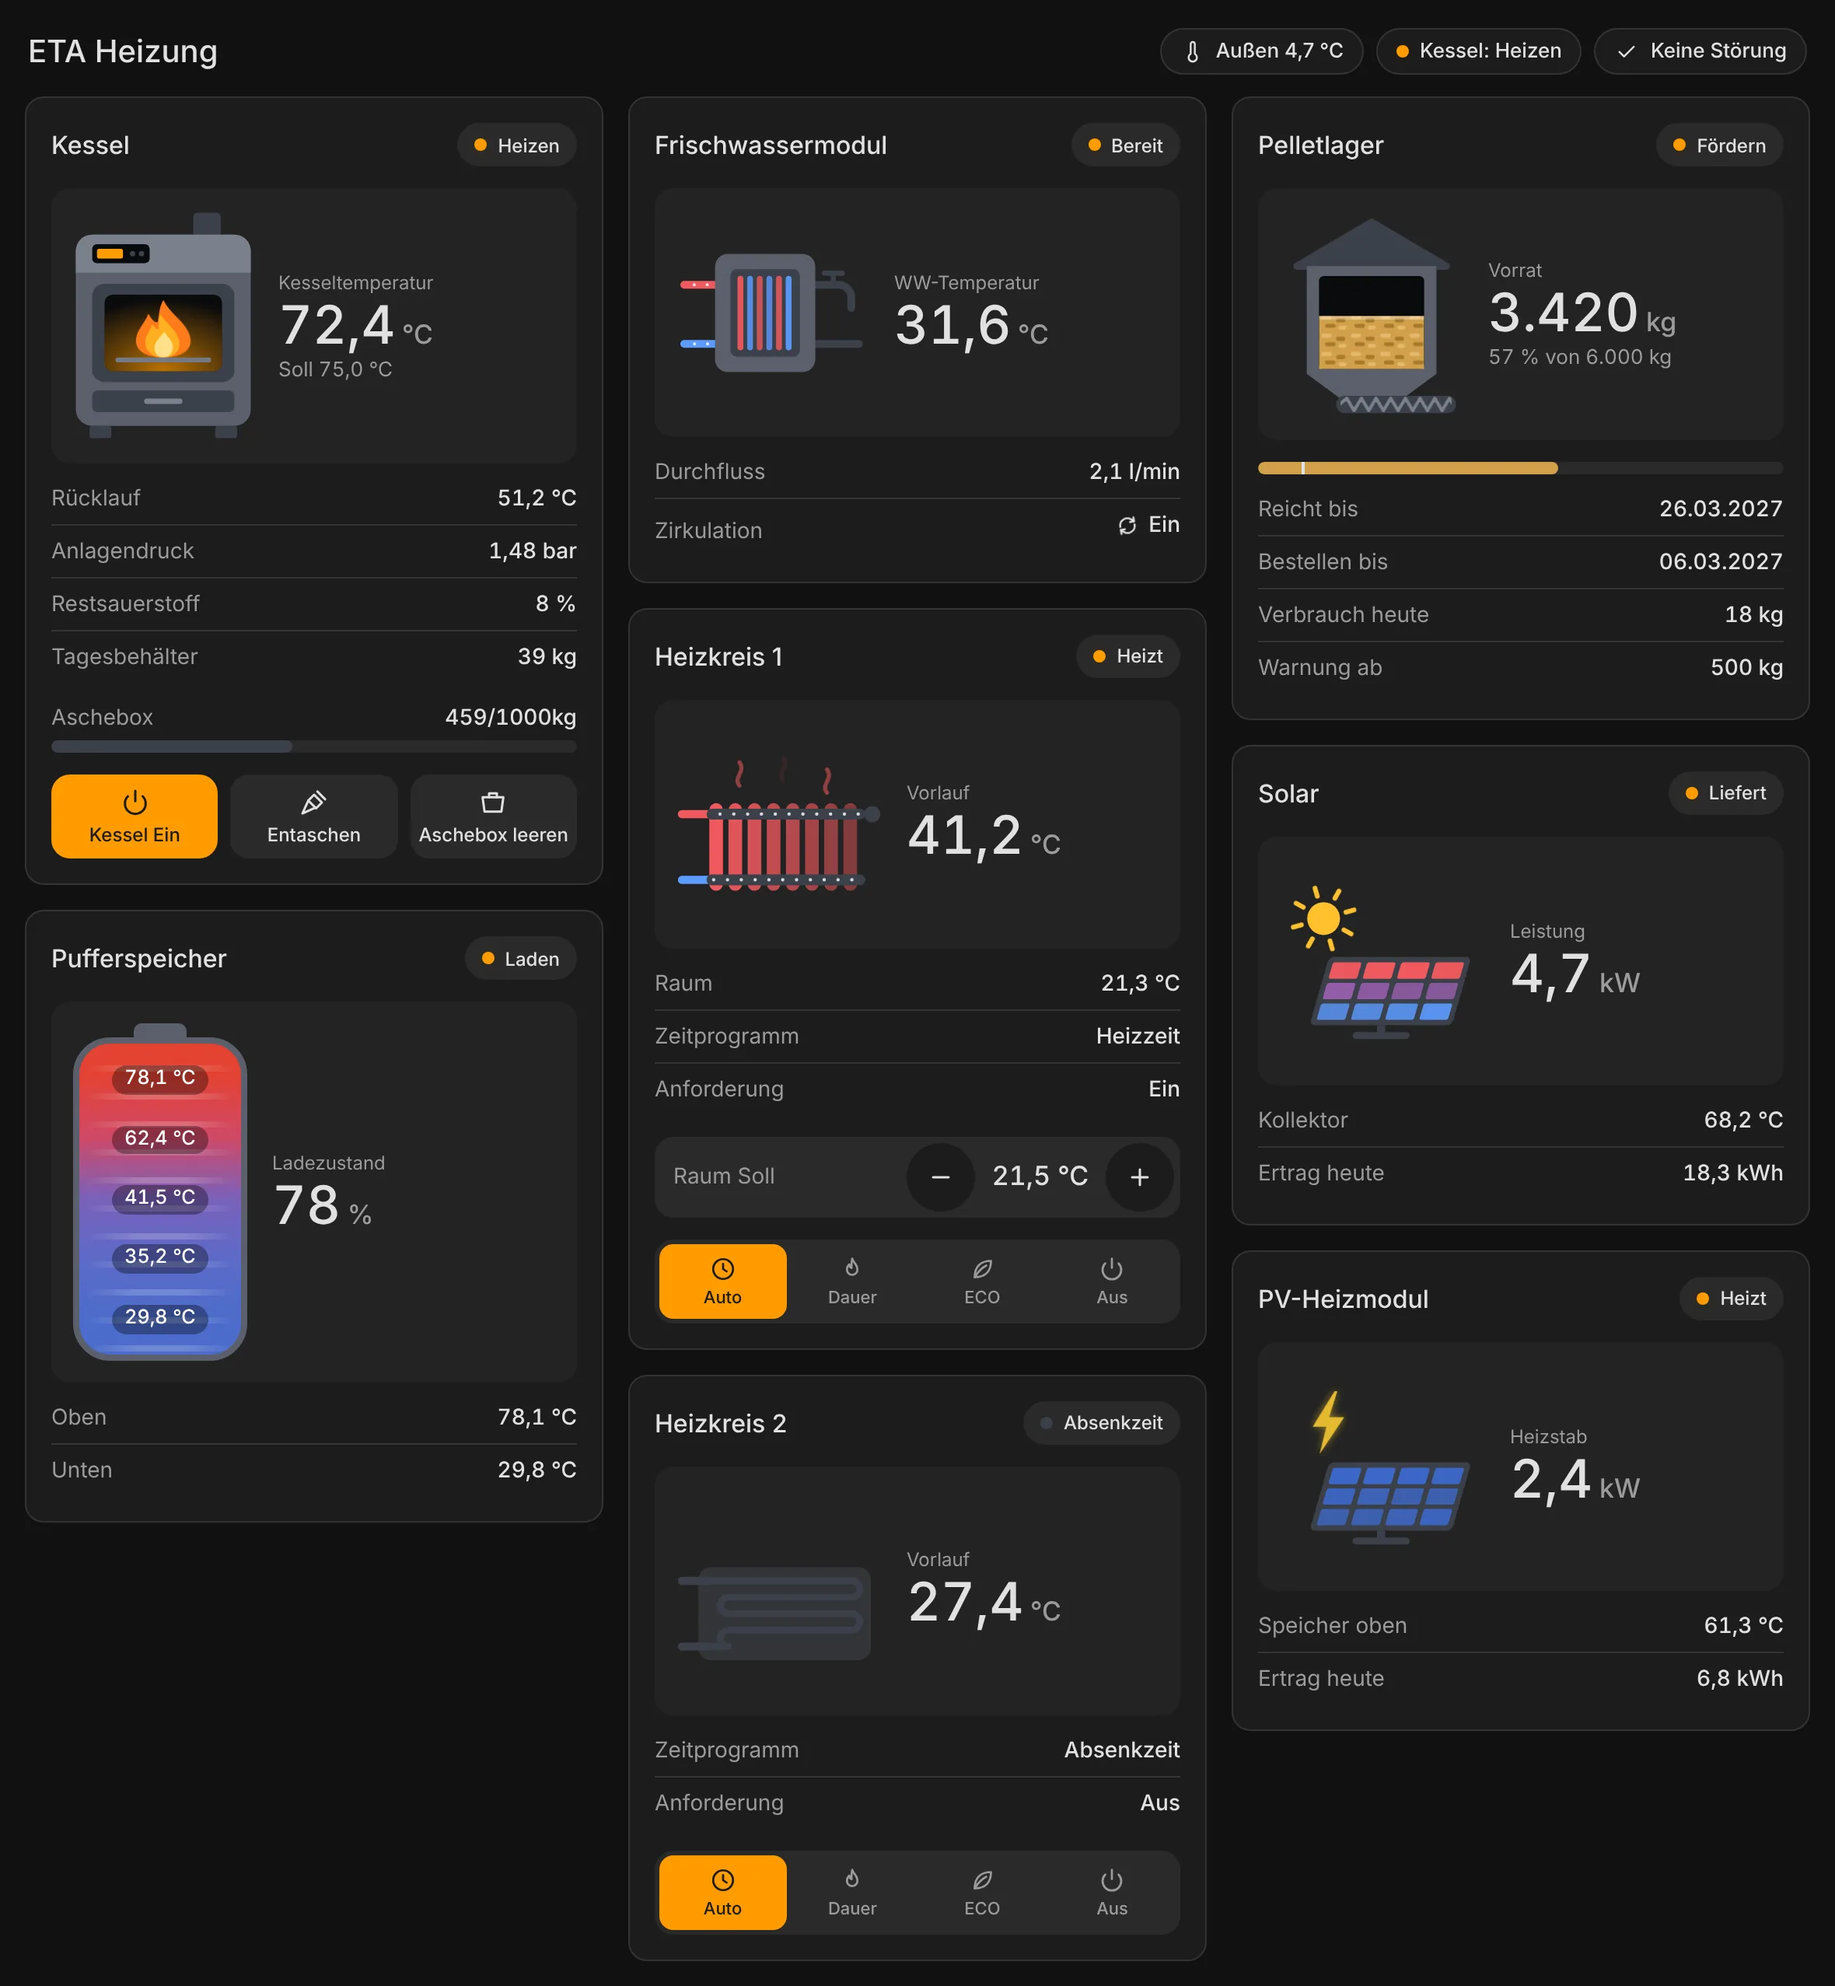
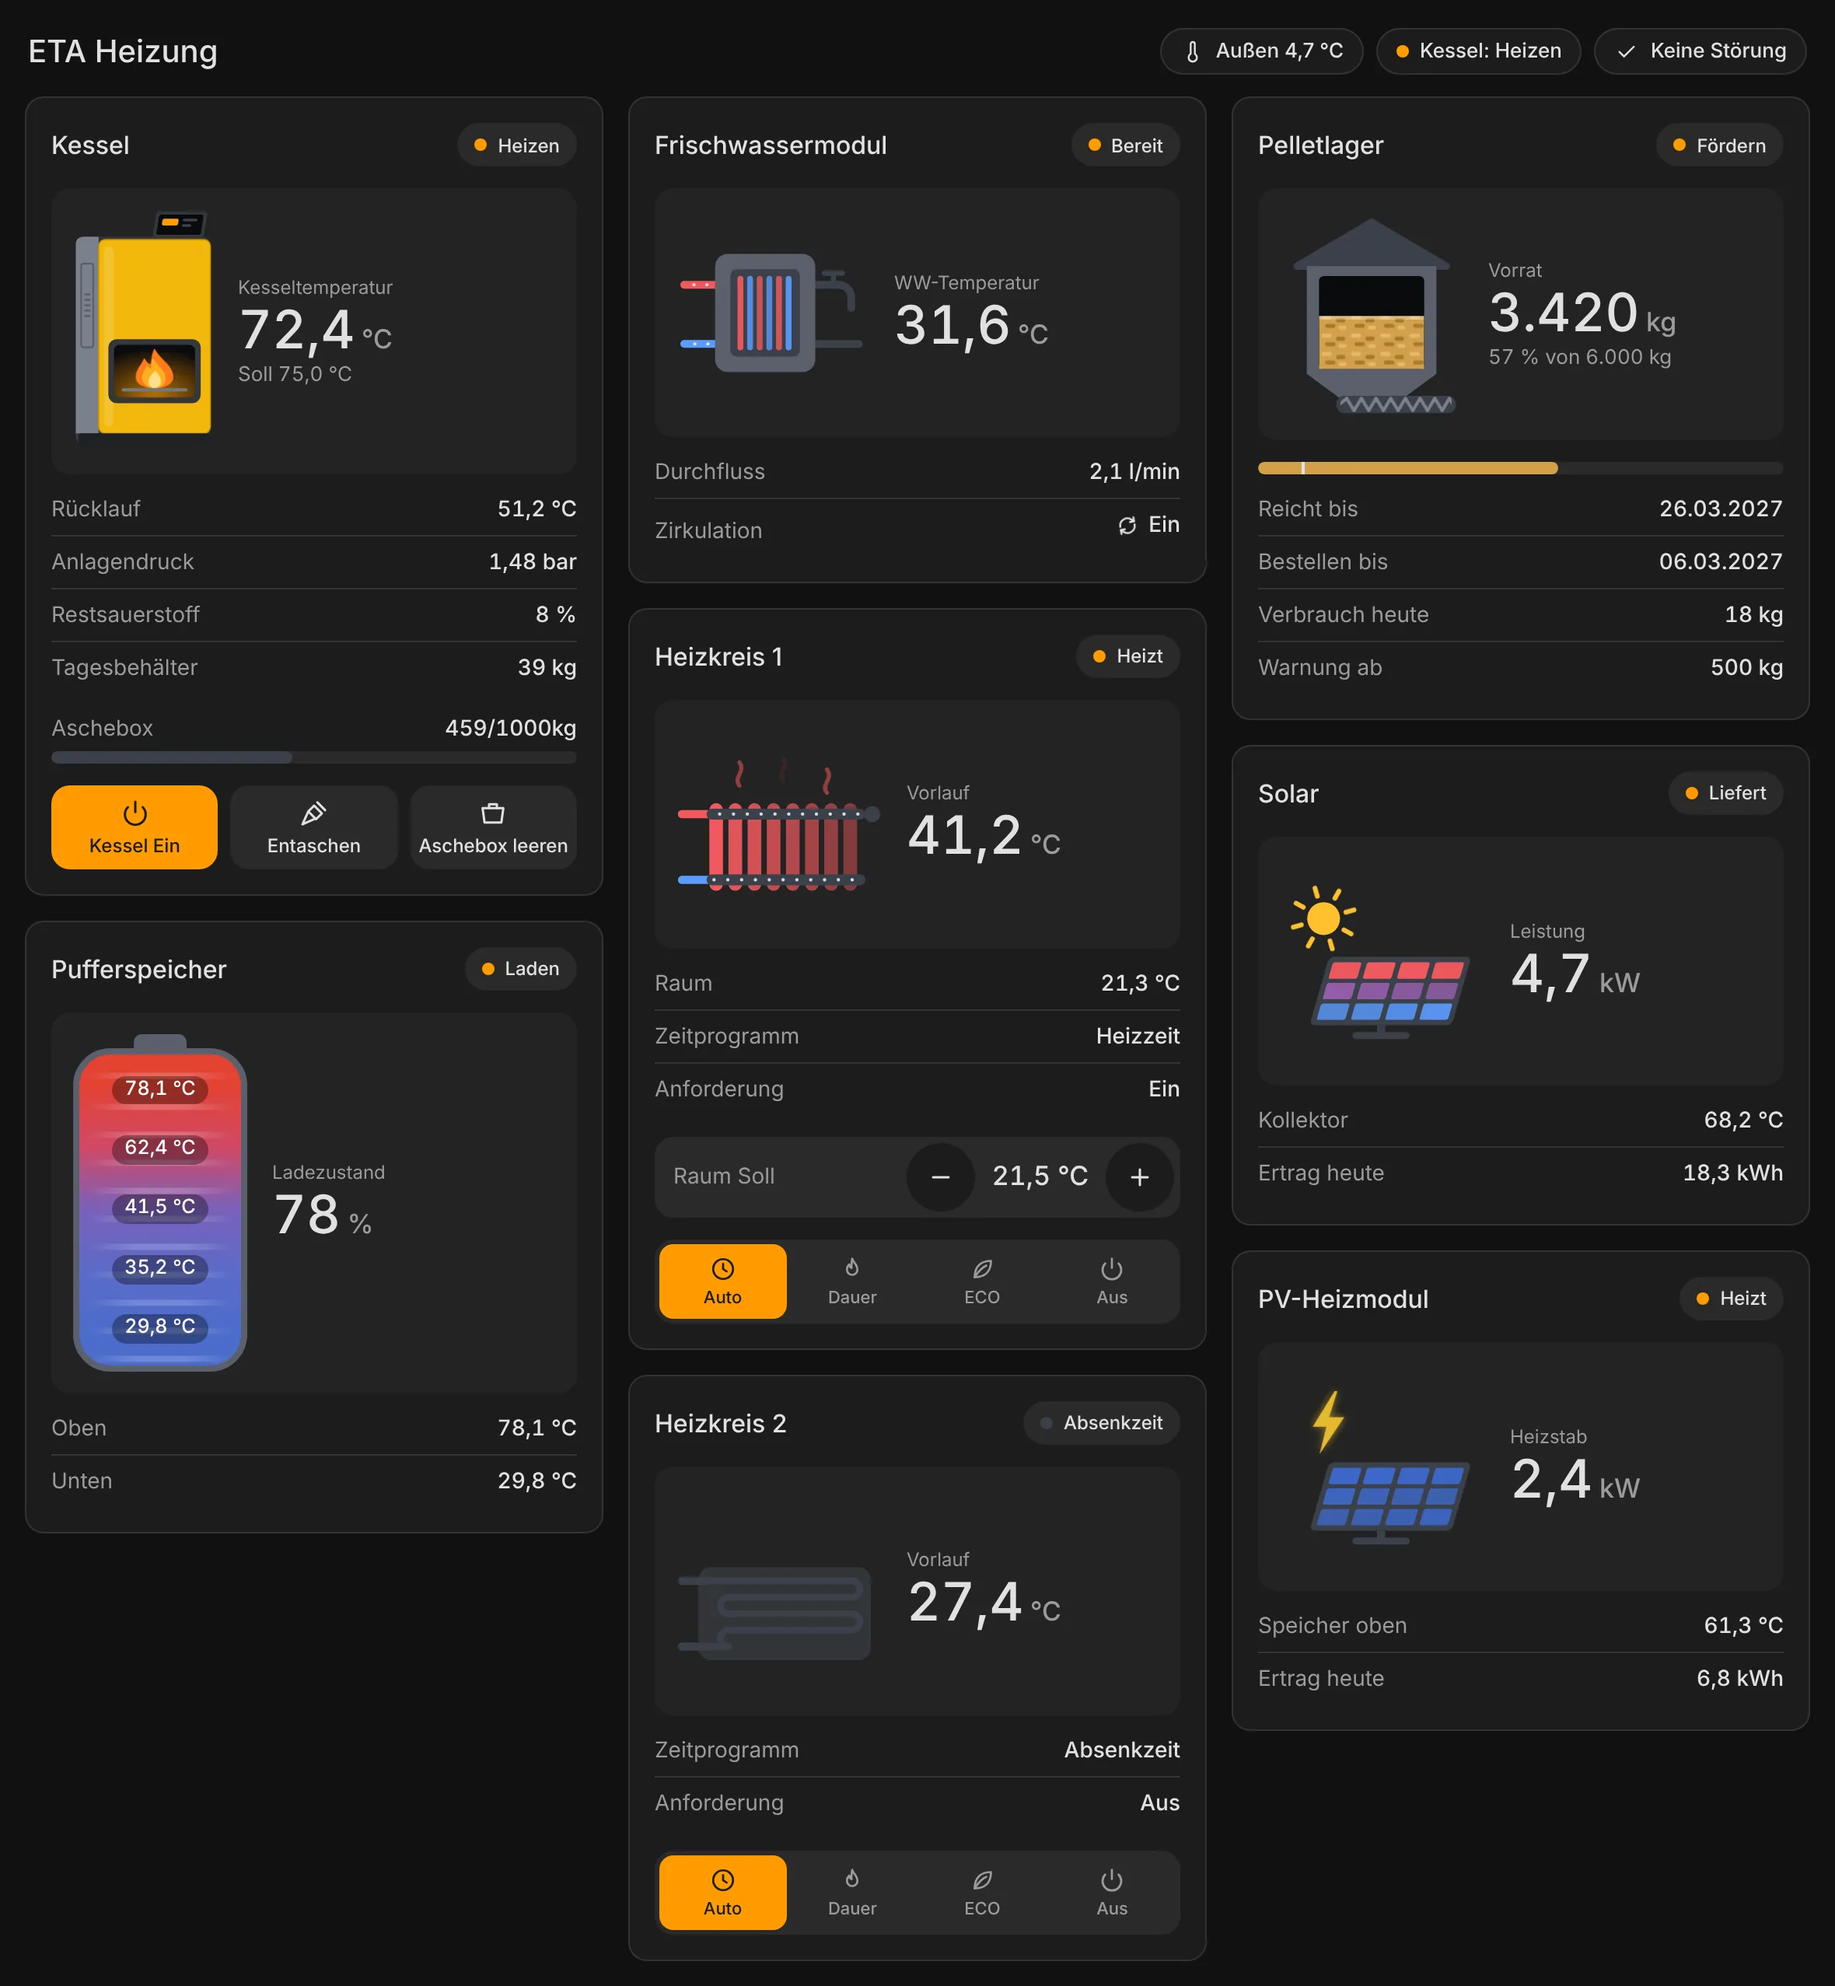
Uebersicht: Kessel als hoher Schrank mit gelber Front
Der Kessel sieht jetzt aus wie die Kessel im Heizraum: hohe gelbe Front,
silberne Seite, dunkler Sockel und der Bildschirm obenauf. Das Sichtfenster
mit Flamme, Zuendung, Glut und Entaschen bleibt - am echten Kessel gibt es
es nicht, die Karte zeigt daran, was der Kessel gerade tut. Bilder im
README neu.

diff --git a/custom_components/eta_heating_ws/oberflaeche/eta-uebersicht-karte.js b/custom_components/eta_heating_ws/oberflaeche/eta-uebersicht-karte.js
@@ -279,6 +279,7 @@ const STIL = `
     --buehne: rgba(127, 127, 127, .08);
     --rund: 12px;
     --metall: #c3c9d2; --metall-hell: #dde2e9; --metall-dunkel: #8b93a0; --kammer: #1d2025;
+    --kessel-gelb: #fcc10f; --kessel-rand: #d9a406; --kessel-dunkel: #3f434a; --kessel-sockel: #2c2f34;
     --akzent: #ff9b00; --auf-akzent: #1a1c20;
     --heiss: #e5484d; --kalt: #3b82f6; --pellet: #c8963e; --pellet-hell: #dcb062; --pellet-dunkel: #a87a2c;
     --sonne: #f2a900; --zelle: #6d7786; --pv: #2c56b0;
@@ -287,6 +288,7 @@ const STIL = `
   :host([vollbild]) { padding: 12px 16px 16px; box-sizing: border-box; }
   :host([dunkel]) {
     --metall: #5a606b; --metall-hell: #7a818d; --metall-dunkel: #3b4049; --kammer: #0a0b0d;
+    --kessel-gelb: #f2b70b; --kessel-rand: #c79405; --kessel-dunkel: #34373d; --kessel-sockel: #1f2125;
     --heiss: #f0595e; --kalt: #5b9bff; --pellet: #d1a04a; --pellet-hell: #e3b96c;
     --sonne: #ffc02e; --zelle: #4c5562; --pv: #3d68c9;
     --stoer: #d93a40; --warn: #f0a92a; --auf-warn: #1a1c20;
@@ -386,6 +388,7 @@ const STIL = `
   [data-zustand="flamme"] .z-flamme, [data-zustand="glut"] .z-glut, [data-zustand="zuendung"] .z-zuendung, [data-zustand="entaschen"] .z-entaschen, [data-zustand="stoerung"] .z-stoerung { display: inline; }
   [data-zustand="entaschen"] .k-rost { display: none; }
   .k-anzeige { fill: var(--akzent); }
+  .k-front { fill: var(--kessel-gelb); stroke: var(--kessel-rand); stroke-width: 1; }
   [data-zustand="aus"] .k-anzeige { fill: var(--metall-dunkel); }
   [data-zustand="stoerung"] .k-anzeige { fill: var(--heiss); animation: eta-blinken 1s steps(2, jump-none) infinite; }
   .k-schein { opacity: 0; }
@@ -620,14 +623,30 @@ const DEFS = `<svg class="eta-defs" aria-hidden="true"><defs>
 
 const reihe = (anzahl, zeichnen) => Array.from({ length: anzahl }, (_, i) => zeichnen(i)).join("");
 
-const kesselBild = () => `<svg class="eta-svg" viewBox="14 0 132 170" aria-hidden="true">
-  <rect x="102" y="2" width="20" height="22" rx="3" fill="var(--metall-dunkel)"/>
-  <rect x="16" y="18" width="128" height="140" rx="12" fill="var(--metall)"/>
-  <path d="M16 30a12 12 0 0 1 12-12h104a12 12 0 0 1 12 12v16H16z" fill="var(--metall-hell)"/>
-  <rect x="28" y="25" width="42" height="14" rx="3.5" fill="var(--kammer)"/>
-  <rect class="k-anzeige" x="31.5" y="28.5" width="19" height="7" rx="1.5"/>
-  <circle cx="57.5" cy="32" r="2" fill="var(--metall-dunkel)"/><circle cx="64" cy="32" r="2" fill="var(--metall-dunkel)"/>
-  <rect x="28" y="54" width="104" height="72" rx="9" fill="var(--metall-dunkel)"/>
+/**
+ * Der Kessel: ein hoher Schrank mit gelber Front, silberner Seite, dunklem
+ * Sockel und dem Bildschirm obenauf - so stehen die Kessel dieser Bauart
+ * im Heizraum. Ein Sichtfenster in der Front zeigt, was im Brennraum
+ * geschieht; das gibt es am echten Kessel nicht, die Karte braucht es für
+ * Flamme, Zündung, Glut und Entaschen.
+ */
+const kesselBild = () => `<svg class="eta-svg" viewBox="0 0 104 180" aria-hidden="true">
+  <rect x="68" y="17" width="16" height="7" rx="1.5" fill="var(--kessel-dunkel)"/>
+  <g transform="translate(62 1) skewX(-9)">
+    <rect width="38" height="21" rx="2.5" fill="var(--kessel-dunkel)"/>
+    <rect x="2.5" y="2.5" width="33" height="15" rx="1.5" fill="var(--kammer)"/>
+    <rect class="k-anzeige" x="5.5" y="5.5" width="12" height="5" rx="1.2"/>
+    <rect x="20.5" y="5.5" width="11" height="2" rx="1" fill="var(--metall-dunkel)"/><rect x="20.5" y="9.5" width="7" height="2" rx="1" fill="var(--metall-dunkel)"/>
+  </g>
+  <rect x="2" y="20" width="100" height="154" rx="5" fill="var(--kessel-dunkel)"/>
+  <path d="M2 25a5 5 0 0 1 5-5h12v146H2z" fill="var(--metall-hell)"/>
+  <rect x="6" y="40" width="9" height="62" rx="1.5" fill="none" stroke="var(--metall)" stroke-width="1.3"/>
+  ${reihe(5, (i) => `<rect x="8.2" y="${62 + i * 4}" width="4.6" height="1.6" rx=".8" fill="var(--metall)"/>`)}
+  <rect class="k-front" x="19" y="22" width="83" height="144" rx="5"/>
+  <rect x="23" y="27" width="7" height="134" rx="3.5" fill="#fff" opacity=".16"/>
+  <rect x="4" y="166" width="98" height="8" rx="2" fill="var(--kessel-sockel)"/>
+  <g transform="translate(4.5 56.8) scale(.7)">
+  <rect x="31" y="56" width="98" height="68" rx="9" fill="var(--kessel-dunkel)"/>
   <rect x="37" y="62" width="86" height="56" rx="6" fill="var(--kammer)"/>
   <rect class="k-schein" x="37" y="62" width="86" height="56" rx="6" fill="url(#eta-schein)"/>
   <g class="z-flamme">
@@ -658,9 +677,7 @@ const kesselBild = () => `<svg class="eta-svg" viewBox="14 0 132 170" aria-hidde
     <rect x="77.8" y="82" width="4.4" height="14" rx="2.2" fill="#1d2025"/><circle cx="80" cy="102" r="2.7" fill="#1d2025"/>
   </g>
   <rect class="k-rost" x="45" y="108" width="70" height="3.5" rx="1.75" fill="#737984"/>
-  <rect x="28" y="132" width="104" height="16" rx="4" fill="var(--metall-dunkel)"/>
-  <rect x="66" y="138" width="28" height="4" rx="2" fill="var(--metall-hell)"/>
-  <rect x="26" y="158" width="16" height="9" rx="2" fill="var(--metall-dunkel)"/><rect x="118" y="158" width="16" height="9" rx="2" fill="var(--metall-dunkel)"/>
+  </g>
 </svg>`;
 
 const heizkreisBild = () => `<svg class="eta-svg" viewBox="0 0 150 106" aria-hidden="true">
@@ -1404,7 +1421,7 @@ class EtaUebersichtKarte extends HTMLElement {
     const kachel = (teil, merkmale, kopf, inhalt) => `<article class="eta-kachel" data-art="${teil.art}" ${merkmale}><header class="eta-kachelkopf"><h3>${e(teil.name)}</h3>${kopf}</header>${inhalt}</article>`;
     const zeichnen = {
       kessel: (k) => kachel(k, `data-zustand="${k.bild}"`, k.zustand ? this._chip(k.zustand.text, k.bild !== "aus" && k.bild !== "stoerung", k.bild === "stoerung" ? "stoer" : "") : "", `
-        <div class="eta-buehne" ${this._info(k.temperatur)}>${this._figur(kesselBild(), 116)}${this._haupt(t.kesseltemperatur, k.temperatur, k.soll ? `${t.soll} ${k.soll.text}` : "")}</div>
+        <div class="eta-buehne" ${this._info(k.temperatur)}>${this._figur(kesselBild(), 90)}${this._haupt(t.kesseltemperatur, k.temperatur, k.soll ? `${t.soll} ${k.soll.text}` : "")}</div>
         ${this._zeilen(k.zeilen)}
         ${k.asche ? `<div class="eta-messung" ${this._info(k.ascheStatus || k.asche)}><div class="eta-messung-kopf"><span>${e(t.aschebox)}</span><b>${k.ascheFaellig ? `<span class="eta-warnzeichen">${ICON.warn}</span>` : ""}${e((k.ascheStatus || k.asche).text)}</b></div>${k.ascheAnteil === null ? "" : `<div class="eta-balken" ${k.ascheFaellig ? 'data-art="warn"' : ""}><i style="width:${(k.ascheAnteil * 100).toFixed(1)}%"></i></div>`}</div>` : ""}
         ${this._bedienung(k, anlage)}`),
@@ -1480,7 +1497,7 @@ class EtaUebersichtKarte extends HTMLElement {
 
     const zeichnen = {
       lager: (l) => station(l, "", l.foerdert ? 'data-foerdert data-fluss="pellets"' : "", this._info(l.vorrat), this._figur(lagerBild(l.anteil ?? 0), 128), schild(l, l.vorrat, [l.niedrig ? t.vorrat_niedrig : "", l.reichtBis ? `${t.reicht_bis} ${l.reichtBis.text}` : ""].filter(Boolean).join(" · "))),
-      kessel: (k) => station(k, "", `data-zustand="${k.bild}" ${k.bild === "flamme" ? "data-fluss" : ""}`, this._info(k.temperatur), this._figur(kesselBild(), 132), schild(k, k.temperatur, [k.zustand?.text, k.soll ? `${t.soll} ${k.soll.text}` : ""].filter(Boolean).join(" · "))),
+      kessel: (k) => station(k, "", `data-zustand="${k.bild}" ${k.bild === "flamme" ? "data-fluss" : ""}`, this._info(k.temperatur), this._figur(kesselBild(), 100), schild(k, k.temperatur, [k.zustand?.text, k.soll ? `${t.soll} ${k.soll.text}` : ""].filter(Boolean).join(" · "))),
       solar: (s, frei) => station(s, `quer links ${frei ? "oben" : ""}`, s.aktiv ? "data-aktiv data-fluss" : "", this._info(s.leistung), this._figur(solarBild(), 92), schild(s, s.leistung, s.kollektor ? `${t.kollektor} ${s.kollektor.text}` : "")),
       pvm: (p) => station(p, "quer links", p.aktiv ? 'data-aktiv data-fluss="strom"' : "", this._info(p.leistung), this._figur(pvmBild(), 92), schild(p, p.leistung, p.heute ? `${t.heute} ${p.heute.text}` : "")),
       brenner: (b) => station(b, "quer links", b.aktiv ? "data-aktiv data-fluss" : "", this._info(b.temperatur || b.anforderung), this._figur(brennerBild(), 72), schild(b, b.temperatur, b.anforderung ? `${t.anforderung} ${b.anforderung.text}` : "")),
@@ -1646,7 +1663,7 @@ class EtaUebersichtKarte extends HTMLElement {
     return `<section class="eta-kachel eta-kompakt" data-zustand="${kessel ? kessel.bild : "aus"}">
       ${this._banner(anlage)}
       <header class="eta-kompakt-kopf"><h3>${e(titel)}</h3>${kessel?.zustand ? this._chip(`${t.kessel}: ${kessel.zustand.text}`, kessel.bild !== "aus" && kessel.bild !== "stoerung", kessel.bild === "stoerung" ? "stoer" : "") : ""}</header>
-      ${kessel || pufferTeil ? `<div class="eta-buehne">${kessel ? `<div class="eta-gruppe" ${this._info(kessel.temperatur)}>${this._figur(kesselBild(), 60)}${this._haupt(t.kessel, kessel.temperatur, anlage.aussen ? `${t.aussen} ${anlage.aussen.text}` : "")}</div>` : ""}${pufferTeil}</div>` : ""}
+      ${kessel || pufferTeil ? `<div class="eta-buehne">${kessel ? `<div class="eta-gruppe" ${this._info(kessel.temperatur)}>${this._figur(kesselBild(), 46)}${this._haupt(t.kessel, kessel.temperatur, anlage.aussen ? `${t.aussen} ${anlage.aussen.text}` : "")}</div>` : ""}${pufferTeil}</div>` : ""}
       <div class="eta-liste">${liste}</div>
       ${this._bedienung(kessel, anlage)}
     </section>`;
